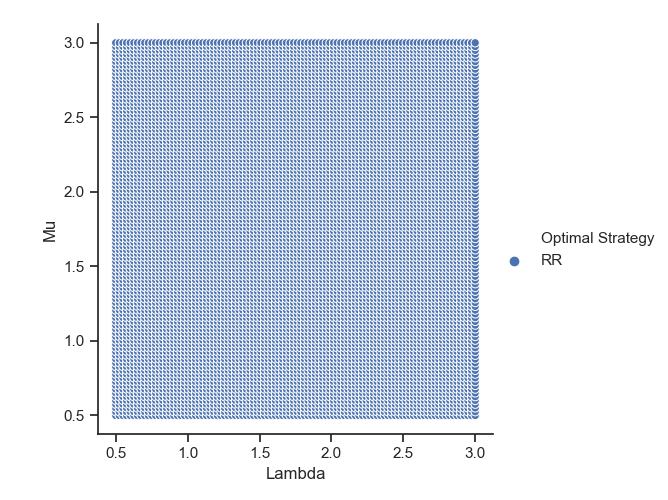
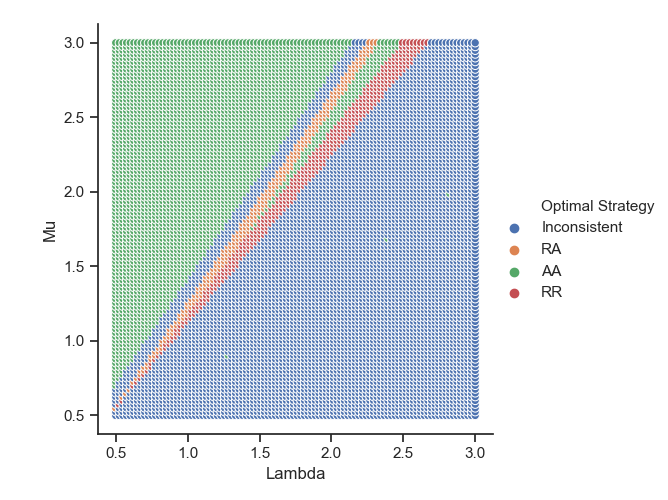
fix gt formulas

Changed region(s): [[0.1497, 0.06, 0.6587, 0.78], [0.8084, 0.39, 0.988, 0.6], [0.7485, 0.45, 0.7784, 0.6]]

diff --git a/src/gt/core/HospitalModel.py b/src/gt/core/HospitalModel.py
@@ -2,89 +2,85 @@ from src.common import *
 
 
 class HospitalModel:
-    def __init__(self, l, mu, n, N_lim, t_c):
-        self._lambda = l
-        self._mu = mu
-        self._n = n
-        self._N_lim = N_lim
-        self._t_c = t_c
+    def __init__(self, la, mu, n, N_lim, t_c):
+        self.la = la
+        self.mu = mu
+        self.n = n
+        self.N_lim = N_lim
+        self.t_c = t_c
 
-    def __ro(self, l: int, mu: int, n=None):
-        return l / mu if n is None else l / mu / n
+    @staticmethod
+    def load_param(la, mu):
+        return la / mu
 
     def empty_queue(self, l, n):
         p = 1
-        ro = self.__ro(l, self._mu)
-        for j in range(1, n + 1):
+        ro = self.load_param(l, self.mu)
+        for j in range(1, n):
             p += (ro ** j) / factor(j)
-        add_ro = 0
-        for j in range(n, self._N_lim):
-            add_ro += (ro / n) ** j
-        p += (ro ** n) / (factor(n) * add_ro - n)
+        p += (ro ** n) / factor(n - 1) / (n - ro)
+        p **= -1
         return p
 
     def k_in_queue(self, l, k, n):
         p_0 = self.empty_queue(l, n)
-        ro = self.__ro(l, self._mu, n)
-        return (ro ** k) * p_0
+        ro = self.load_param(l, self.mu)
+        return (ro ** k) / factor(k) * p_0
 
     def queue_length(self, l, n):
         p_0 = self.empty_queue(l, n)
-        ro = self.__ro(l, self._mu, n)
-        return (ro ** (n + 1)) / factor(n) * n / ((n - ro) ** 2) * p_0
+        ro = self.load_param(l, self.mu)
+        return (ro ** (n + 1) * n) / factor(n) / ((n - ro) ** 2) * p_0
 
     def queue_processing_time(self, l, n):
-        L = self.queue_length(l, n)
-        return L / l + 1 / self._mu
+        W_q = self.queue_length(l, n)
+        return W_q / l + 1 / self.mu
 
     def p_rej(self, l, n):
         p_0 = self.empty_queue(l, n)
-        return self.__ro(l, self._mu) ** self._N_lim / factor(n) / n ** (self._N_lim - n) * p_0
+        p_k = []
+        for k in range(1, n + self.N_lim + 1):
+            p_k.append(self.k_in_queue(l, k, n))
+        return 1 - p_0 - sum(p_k)
 
-    def __lambda_rr_sup(self, l):
-        l_r1 = [l[0] * self.p_rej(l[0], self._n[0]), l[1] * self.p_rej(l[1], self._n[1])]
-        l_r2 = [l_r1[1] * self.p_rej(l[0] + l_r1[1], self._n[0]), l_r1[0] * self.p_rej(l[1] + l_r1[0], self._n[1])]
-        l_i_1 = np.array([l[0] - l_r1[0], l[1] - l_r1[1]])
+    def lambda_rr_sup(self, la):
+        l_r1 = [la[0] * self.p_rej(la[0], self.n[0]), la[1] * self.p_rej(la[1], self.n[1])]
+        l_r2 = [l_r1[1] * self.p_rej(la[0] + l_r1[1], self.n[0]), l_r1[0] * self.p_rej(la[1] + l_r1[0], self.n[1])]
+        l_i_1 = np.array([la[0] - l_r1[0], la[1] - l_r1[1]])
         l_i_2 = np.array([l_r1[1] - l_r2[0], l_r1[0] - l_r2[1]])
         l_i_3 = 0.5 * np.array([l_r2[0] + l_r2[1], l_r2[1] + l_r2[0]])
         return l_i_1, l_i_2, l_i_3
 
     def lambdas(self, type):
-        l = np.array([self._lambda / 2, self._lambda / 2])
+        la = np.array([self.la / 2, self.la / 2])
 
         if type == 'AA':
-            return l
+            return la
         elif type == 'RA':
-            return np.array([l[0] * (1 - self.p_rej(l[0], self._n[0])), l[1] + l[0] * self.p_rej(l[0], self._n[0])])
+            return np.array([la[0] * (1 - self.p_rej(la[0], self.n[0])), la[1] + la[0] * self.p_rej(la[0], self.n[0])])
         elif type == 'AR':
-            return np.array([l[0] + l[1] * self.p_rej(l[1], self._n[1]), l[1] * (1 - self.p_rej(l[1], self._n[1]))])
+            return np.array([la[0] + la[1] * self.p_rej(la[1], self.n[1]), la[1] * (1 - self.p_rej(la[1], self.n[1]))])
         elif type == 'RR':
-            return sum(self.__lambda_rr_sup(l))
+            return sum(self.lambda_rr_sup(la))
 
     def t_transp(self, lambdas, type, i=None):
         if type == 'AA' or (type == 'RA' and i == 0) or (type == 'AR' and i == 1):
-            return 0.25 * self._t_c
+            return 0.25 * self.t_c
         elif (type == 'AR' and i == 0) or (type == 'RA' and i == 1):
-            return self._t_c * (1 - 1 / 2 / (1 + self.p_rej(lambdas[1 - i], self._n[i])))
+            return self.t_c * (1 - 1 / 2 / (1 + self.p_rej(lambdas[1 - i], self.n[i])))
         elif type == 'RR':
-            l_sup = [self._lambda / 2, self._lambda / 2]
-            l_i_1, l_i_2, l_i_3 = self.__lambda_rr_sup(l_sup)
-            return self._t_c * (0.25 * l_i_1[i] + 0.75 * l_i_2[i] + 0.5 * l_i_3[i]) / lambdas[i]
+            l_sup = [self.la / 2, self.la / 2]
+            l_i_1, l_i_2, l_i_3 = self.lambda_rr_sup(l_sup)
+            return self.t_c * (0.25 * l_i_1[i] + 0.75 * l_i_2[i] + 0.5 * l_i_3[i]) / lambdas[i]
 
     def total_time(self, lambdas, type):
-        t_1 = self.queue_processing_time(lambdas[0], self._n[0])
-        t_2 = self.queue_processing_time(lambdas[1], self._n[1])
+        t_1 = self.queue_processing_time(lambdas[0], self.n[0])
+        t_2 = self.queue_processing_time(lambdas[1], self.n[1])
         t_transp_1 = self.t_transp(lambdas, type, 0)
         t_transp_2 = self.t_transp(lambdas, type, 1)
         return np.array([t_1 + t_transp_1, t_2 + t_transp_2])
 
-    def utility_function(self, l, t):
-        return l / t
-
-    def global_average_time_function(self, l, t):
-        return np.sum(l * t, 2) / np.sum(l, 2)
-
-    def __lambdas_and_times(self):
+    def lambdas_and_times(self):
         lambdas = np.array([[self.lambdas('AA'), self.lambdas('AR')], [self.lambdas('RA'), self.lambdas('RR')]])
         times = np.array([
             [self.total_time(lambdas[0][0], 'AA'), self.total_time(lambdas[0][1], 'AR')],
@@ -92,10 +88,25 @@ class HospitalModel:
         ])
         return lambdas, times
 
+    @staticmethod
+    def utility_function(l, t):
+        return l / t
+
+    @staticmethod
+    def global_average_time_function(l, t):
+        return np.sum(l * t, 2) / np.sum(l, 2)
+
     def game_matrix(self):
-        lambdas, times = self.__lambdas_and_times()
+        lambdas, times = self.lambdas_and_times()
         return self.utility_function(lambdas, times)
 
     def global_average_time_matrix(self):
-        lambdas, times = self.__lambdas_and_times()
+        lambdas, times = self.lambdas_and_times()
         return self.global_average_time_function(lambdas, times)
+
+
+if __name__ == '__main__':
+    model = HospitalModel(4, 2, [3, 4], 2, 10)
+    print(model.lambdas('RR'))
+    print(model.game_matrix())
+    print(model.global_average_time_matrix())

diff --git a/src/gt/plot/PatientInflowPlot.py b/src/gt/plot/PatientInflowPlot.py
@@ -30,6 +30,7 @@ def global_plot(n, ax):
     sns.lineplot(x="Patients Inflow", y="Global time", hue="Strategy", data=data, ax=ax)
     ax.set_title('Server N = ' + str(n))
 
+
 if __name__ == '__main__':
     fig, axs = plt.subplots(ncols=3, figsize=(20, 5))
     global_plot([2, 1], axs[0])
@@ -37,4 +38,3 @@ if __name__ == '__main__':
     global_plot([2, 3], axs[2])
     plt.savefig('../../images/Patient Inflow')
     plt.show()
-
